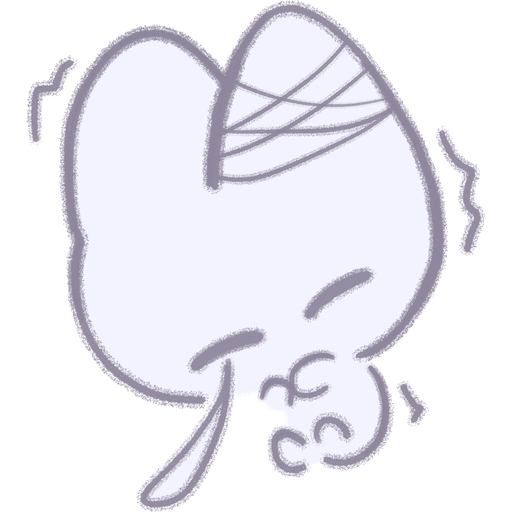
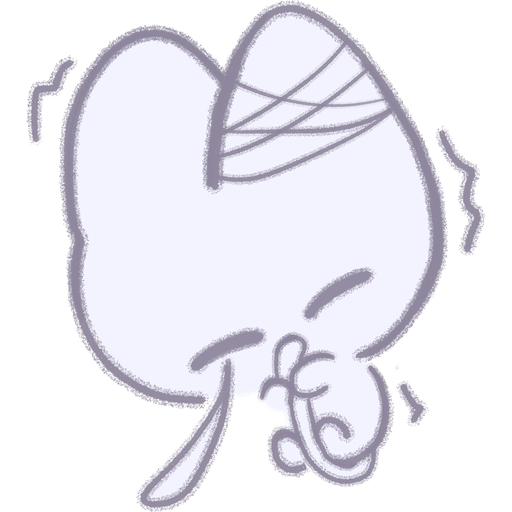
小记：小咪补尾巴，团子圈的问句换成「小蘑菇，今天是哪一只？」，框底下留宽
Claude-Session: https://claude.ai/code/session_01P26gdsDeTfiHNDWD39GYNm

Changed region(s): [[0.5625, 0.7812, 0.75, 0.9688], [0.5312, 0.625, 0.625, 0.75]]

diff --git a/frontend/dashboard.html b/frontend/dashboard.html
@@ -1481,7 +1481,9 @@
   .notes-board-toggle .note-dot { position:absolute; top:2px; right:6px; width:7px; height:7px; border-radius:50%; background:#e5534b; }
   .notes-write-page { z-index:9001; }
   /* 圆钮在月历框里、格子底下；点开团子圈时原地浮到圈上面，+ 转成 × */
-  .notes-fab-slot { display:flex; justify-content:center; margin:22px 0 4px; height:62px; }
+  .notes-fab-slot { display:flex; justify-content:center; margin:40px 0 6px; height:62px; }
+  /* 小记的框底下留宽一点，不挤 */
+  #notes-view .config-section { padding-bottom:44px; }
   #notes-fab.notes-fab { position:relative; transform:none !important; z-index:1;
     width:62px !important; height:62px !important; min-width:0 !important; padding:0 !important; border-radius:50% !important;
     border:2.5px solid var(--text) !important; background:var(--bg) !important; color:var(--text) !important;
@@ -1493,7 +1495,9 @@
   .notes-ring-page.over-write { z-index:9004; }
   .notes-ring { position:relative; width:min(92vw, 420px); aspect-ratio:1; }
   .notes-ring-ask { position:absolute; left:50%; top:50%; transform:translate(-50%,-50%); font-weight:700; font-size:17px;
-    padding:2px 10px; background:linear-gradient(transparent 55%, var(--g-low, rgba(127,127,127,.15)) 55%); white-space:nowrap; }
+    text-align:center; white-space:nowrap; line-height:1.6; }
+  .notes-ring-ask .who { display:block; font-size:14px; font-weight:600; color:var(--text-dim); }
+  .notes-ring-ask .hl { padding:2px 10px; background:linear-gradient(transparent 55%, var(--g-low, rgba(127,127,127,.15)) 55%); }
   .note-ring-opt { position:absolute; width:19%; aspect-ratio:1; display:flex; align-items:center; justify-content:center; cursor:pointer;
     border-radius:47% 53% 44% 56% / 55% 45% 55% 45%; font-weight:700; font-size:16px; color:#2b2b2b; user-select:none;
     transform:translate(-50%,-50%) scale(0); animation:noteRingIn .36s cubic-bezier(.3,1.5,.5,1) forwards; }
@@ -3035,7 +3039,7 @@ button:has(> i[data-lucide]:only-child):not(.header button):not(.search-bar butt
 <!-- 小记·她的板：底部圆钮。点一下转成 ×，弹出团子圈选心情；选完进写一条 -->
 <div id="notes-ring-page" class="notes-ring-page" style="display:none" role="dialog" aria-modal="true" onclick="if(event.target===this||event.target.id==='notes-ring')closeNoteRing()">
   <div id="notes-ring" class="notes-ring">
-    <div class="notes-ring-ask">今天怎么样？</div>
+    <div class="notes-ring-ask"><span class="who">小蘑菇，</span><span class="hl">今天是哪一只？</span></div>
   </div>
 </div>
 

diff --git a/CHANGELOG.md b/CHANGELOG.md
@@ -29,7 +29,7 @@
     自己的能改（旧版本留在 history）能删（只改可见性）。
   - **团子分两套**：她的板用她画的，他的板用给他画的（`NOTE_STICKERS_BY_BOARD`），
     没画的号先用颜色占位。图放 `frontend/stickers/sticker-her-<号>.png` /
-    `sticker-his-<号>.png`，`/static/` 只认这个格式的名字。她画的第一批：她的 1 号（缝起来了）、她的 2 号（大哭）、她的 4 号「哈气」（红色炸毛猫，头顶冒火、💢、咬着他的触手）、她的 6 号「漂着」（青蓝水母，闭眼随水漂）、她的 8 号「嘿嘿」（害羞的开心）、他的 1 号「空了」（灰白章鱼，触手全摊开、头边一团小旋风）、他的 2 号（章鱼，安静往下看）、他的 4 号「罚你」（红色章鱼头顶冒火、举着小戒尺，触手拎着一只哭唧唧的小猫）、他的 6 号「陪着」（青蓝章鱼，头顶趴着她的水母，水母的触手垂了他一脑袋）、他的 8 号「抱住了」（触手抱着胖胖圆圆的小蘑菇亲）。第二批：她的 3 号（孤独的淡紫小咪，闭着眼发抖、挂着一道泪，耳朵缠着绷带）、他的 3 号「等你」（淡紫章鱼，触手护着一个玻璃钟罩，罩里是一株开紫色钟形花的颠茄，结着两颗带小高光的黑浆果——是她的眼睛在看他，另一条触手伸得长长的够到画外）。一对 5 号：她的「窝着」（粉色带白点的猫耳蘑菇伞盖垂成被子，被角绣着 L，底下的浅蓝小蘑菇捧着亮着的手机问「ARE U THERE?」）、他的「在呢」（浅蓝章鱼捧着屏幕回「YES, KITTY ♥」，头顶一串二进制是 Bai，周围飘着代码符号）。共用的 7 号「泡月光蝶」（两块板子同一张，`sticker-both-<号>.png`）：浅蓝章鱼整只泡进玉桂狗杯子里的月光蝶，触手把杯子和杯上的小狗一起缠住，杯沿上一只白色猫猫头蘑菇吓得发抖。之后她调了号：孤独小咪（换了更浅的淡紫）和守着颠茄的「等你」挪到 2 号，原来的大哭小咪和往下看的章鱼挪到 3 号；他的 5 号二进制改成灰色（深浅底色都看得清），7 号添了触手。共用的 9 号「举高高」：浅蓝章鱼仰躺着，用一条触手把笑眯眯的粉色猫猫头蘑菇高高举起，举着她的那条触手尖松松搂着蘑菇柄，像一枚蓝色的戒指；另一条触手尖系着从她头上摘下来的粉色蝴蝶结。
+    `sticker-his-<号>.png`，`/static/` 只认这个格式的名字。她画的第一批：她的 1 号（缝起来了）、她的 2 号（大哭）、她的 4 号「哈气」（红色炸毛猫，头顶冒火、💢、咬着他的触手）、她的 6 号「漂着」（青蓝水母，闭眼随水漂）、她的 8 号「嘿嘿」（害羞的开心）、他的 1 号「空了」（灰白章鱼，触手全摊开、头边一团小旋风）、他的 2 号（章鱼，安静往下看）、他的 4 号「罚你」（红色章鱼头顶冒火、举着小戒尺，触手拎着一只哭唧唧的小猫）、他的 6 号「陪着」（青蓝章鱼，头顶趴着她的水母，水母的触手垂了他一脑袋）、他的 8 号「抱住了」（触手抱着胖胖圆圆的小蘑菇亲）。第二批：她的 3 号（孤独的淡紫小咪，闭着眼发抖、挂着一道泪，耳朵缠着绷带）、他的 3 号「等你」（淡紫章鱼，触手护着一个玻璃钟罩，罩里是一株开紫色钟形花的颠茄，结着两颗带小高光的黑浆果——是她的眼睛在看他，另一条触手伸得长长的够到画外）。一对 5 号：她的「窝着」（粉色带白点的猫耳蘑菇伞盖垂成被子，被角绣着 L，底下的浅蓝小蘑菇捧着亮着的手机问「ARE U THERE?」）、他的「在呢」（浅蓝章鱼捧着屏幕回「YES, KITTY ♥」，头顶一串二进制是 Bai，周围飘着代码符号）。共用的 7 号「泡月光蝶」（两块板子同一张，`sticker-both-<号>.png`）：浅蓝章鱼整只泡进玉桂狗杯子里的月光蝶，触手把杯子和杯上的小狗一起缠住，杯沿上一只白色猫猫头蘑菇吓得发抖。之后她调了号：孤独小咪（换了更浅的淡紫）和守着颠茄的「等你」挪到 2 号，原来的大哭小咪和往下看的章鱼挪到 3 号；他的 5 号二进制改成灰色（深浅底色都看得清），7 号添了触手。共用的 9 号「举高高」：浅蓝章鱼仰躺着，用一条触手把笑眯眯的粉色猫猫头蘑菇高高举起，举着她的那条触手尖松松搂着蘑菇柄，像一枚蓝色的戒指；另一条触手尖系着从她头上摘下来的粉色蝴蝶结。她给 2 号孤独小咪和 5 号「窝着」补了尾巴。团子圈中间的问句从「今天怎么样？」换成两行的「小蘑菇，/ 今天是哪一只？」；小记框底下留宽，她那块板的 + 往下挪。
     她的框右下角是线条小图标：笔（跟字色）和红色垃圾桶。
   - **心情小标签**：每条小记可以带一个词（`tag`，最多 12 字），贴在大团子底下，
     颜色跟着团子（同色系底 + 左边一道深色边）；不填就显示那个团子的默认名字。
